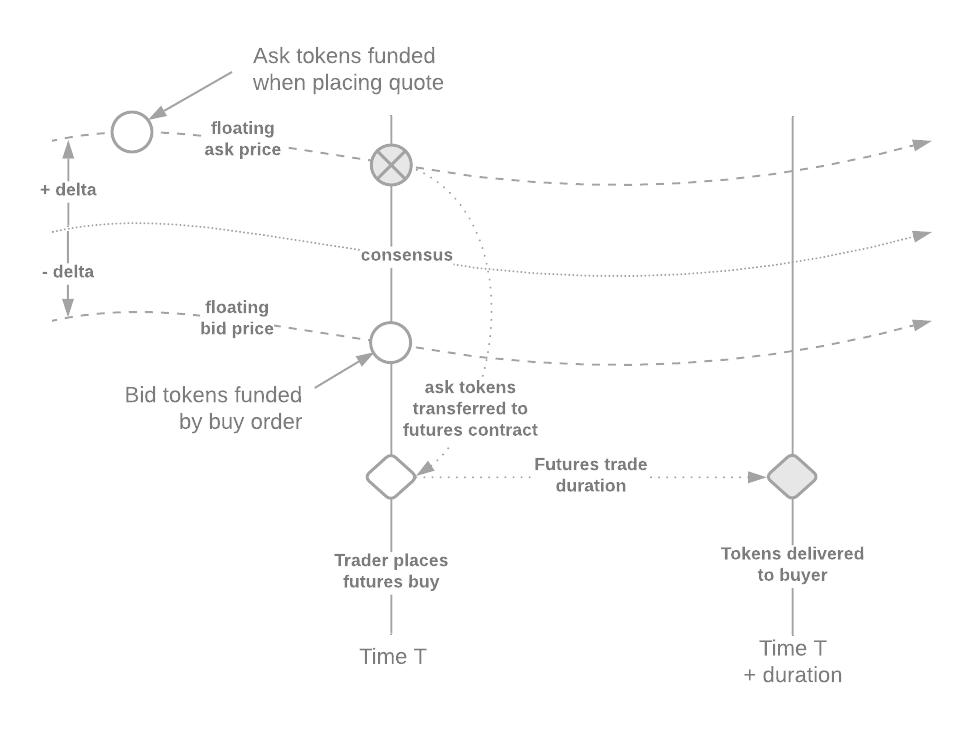
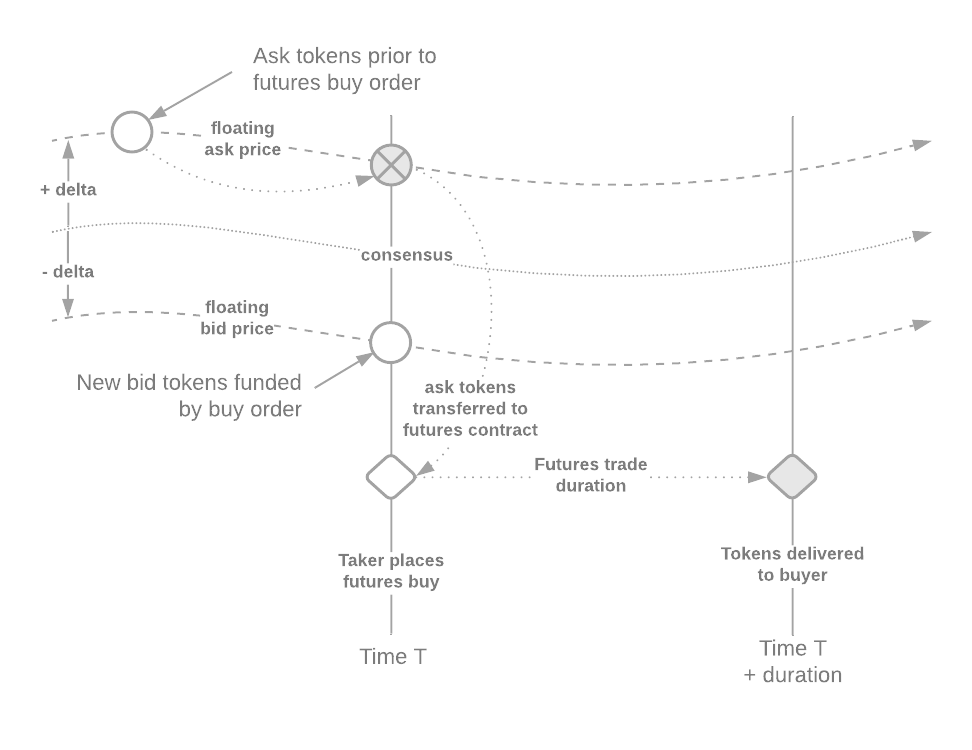
more documentation updates and formula images added

diff --git a/docs/consensus.md b/docs/consensus.md
@@ -11,15 +11,13 @@ In this section we'll take a look how the price consensus markets work in Microt
 
 ![System Diagram](../static/img/microtick_overview_options.png)
 
-### Benefits to the Cosmos ecosystem
+## Benefits to the Cosmos ecosystem
 
 There are other oracles available in Cosmos but Microtick offers one that is both stable (i.e. does not depend on volatility for its price discovery) and one that can be hedged. If your Dapp depends on data but there's no way to hedge exposure with your current oracle, or worse, intra-block volatility can cause significant losses, you might benefit from using Microtick's hedgeable consensus price markets. Even better, they do not depend on tokenization of the underlying asset in order to reap the benefits of decentralized price discovery.
 
-## Market Mechanics
+## The Basics
 
-### The Basics
-
-#### Price quotes
+### Maker: Price quotes
 
 Microtick uses a native token as backing for price quotes places on its consensus markets. These price quotes are weighted and averaged together to arrive at a consensus price. The weights are based on how tight the market maker is willing to specify the +/- accuracy for their quote over the time duration of the market as well as on the amount of backing the market maker is willing to put behind the price quote.
  
@@ -29,13 +27,22 @@ For more information on what is meant by "premium" see the [FAQ](faq.md).
 
 ![Price quote diagram](../static/img/price_quotes.png)
 
-#### Trades
+### Taker: Trades
 
+When a trade is placed against a quote, the trader selects the direction of the trade:
+ 
+* A call trade is a bet that the consensus price goes up over the time duration of the trade.
+* A put trade is a bet that the consensus price goes down over the time duration of the trade.
 
+All trades start at the current consensus price (point **A** below), and last for the time duration of the quote. The trade pays out in relation to the premium paid as shown in the diagram.
 
-#### Markets
+![Consensus Premium Bands](../static/img/consensus_premium_bands.png)
 
-A Microtick market consists of a set of standardized time durations:
+The trader wants to pay as little premium as possible in order to draw in the profit bands so the same price movement pays out more.
+
+### Markets
+
+In order to concentrate liquidity, Microtick markets are standardized by time durations:
 
 * 5-minute 
 * 15-minute
@@ -47,9 +54,9 @@ Each standardized time duration has a separate order book of quotes.  Market mak
 
 Therefore, the market makers play a game of placing and maintining quotes with accurate real world spot and volatility estimates (while tracking the Microtick consensus to ensure consistency).  Traders play a game of looking for trading opportunities based on underpriced premiums or a consensus price that differs significantly from the real-world value.
 
-### Deep Dive
+## Deep Dive
 
-#### Quotes
+### Quotes
 
 A quote consists of the following elements:
 
@@ -59,17 +66,9 @@ A quote consists of the following elements:
 | Token Backing    | Market maker backs the quote with an amount of on-chain token value. |  Market Maker        |
 | Premium | A fair value for both a put and a call with a strike price = the quote’s spot price. | Market Maker |
 | Duration | Standardized duration |  Market Maker |
-| Weight (Quantity) | Weight, also referred to as quantity, is calculated by the following formula: Weight =Token BackingLeverage * Premium  Leverage is a constant set to 10 for all quotes currently. | Game rules |
-| Actual Call Premium |  Dynamic value | |
-| Actual Put Premium | Dynamic value | |
-
-
-Call Price= Premium +Spot - Consensus2
-Game rules, may vary block by block
-
-
-Put Price = Premium - Spot - Consensus2
-Game rules, may vary block by block
+| Weight (Quantity) | ![Weight Formula](../static/img/formula_weight.png) | Game rules |
+| Actual Call Premium | ![Call Formula](../static/img/formula_call.png) | Game rules, may vary block by block |
+| Actual Put Premium | ![Put Formula](../static/img/formula_put.png) | Game rules, may vary block by block |
 
 A quote is an assertion of real-world price made by the market maker and backed with an amount on on-chain token backing.
 
@@ -83,49 +82,35 @@ The actual call and put premiums paid by traders to the market maker in practice
 
 When placing a quote, the following “2x limitations” apply:
 
-Spot 2x limitation.  A quote cannot be placed that will become a free call or put on the resulting order book. This rule protects the party placing the quote as well as limits the spot to be within 2x of the quoted premium of the resultant consensus.  This rule also lets us calculate the maximum amount a given amount of tokens can move the price of a market:
-Max consensus change =2 * New Quote's Token BackingLeverage * Active Quote Weights
+**Spot 2x limitation**.  A quote cannot be placed that will become a free call or put on the resulting order book. This rule protects the party placing the quote as well as limits the spot to be within 2x of the quoted premium of the resultant consensus.  This rule also lets us calculate the maximum amount a given amount of tokens can move the price of a market:
+
+![Max consensus change](../static/img/formula_max_consensus.png)
+
 This formula applies for any spot within 2x of the premium according to the above rule, regardless of the spot, premium or time duration chosen by the market maker.
 
-Premium 2x limitation.  A quote cannot be placed with a premium of more than 2x the current order book consensus premium for that time duration.  The order book consensus premium is defined as:
-Order Book Consensus Premium =order book quotesBackingLeverage * order book quotesWeight 
+**Premium 2x limitation**.  A quote cannot be placed with a premium of more than 2x the current order book consensus premium for that time duration.  The order book consensus premium is defined as:
+
+![Order Book Consensus Premium](../static/img/formula_consensus.png)
+
 for the order book the quote is placed on. This rule means a quote must be competitive on the order book and can’t be placed with an arbitrarily large premium.
 
-Time 2x limitation.  A quote must be updated within 2x the time duration or anyone may cancel it and collect the backing for the quote.  This ensures stagnant quotes will always be removed from the marketplace.
+**Time 2x limitation**.  A quote must be updated within 2x the time duration or anyone may cancel it and collect the backing for the quote.  This ensures stagnant quotes will always be removed from the marketplace.
 
 Normally, for reasonable market makers placing earnest quotes the above limitations will never be an issue.
 
-#### Trades
+### Trades
 
 A trade consists of the following elements:
 
-Name
-Description
-Set by
-Direction
-Call (long) or Put (short)
-Trader
-Strike Price
-Threshold value above (call) or below (put) which the trader is “in-the-money”
-Game rules set the strike price as the current market consensus price when a trade is placed.
-Expiration Time
-Trade expiration after which it may be settled.
-Game rules set the expiration time as the current time plus the duration for the order book the trade is placed on.
-Quantity
-Quantity is another word for weight when specifying an amount for the trade.
-Trader
-Token Backing
-Tokens are transferred from the quote into the trade according to the proportion of trade quantity to quote quantity when the trade is filled.
-Game rules transfer quote backing to become trade backing when a trade is matched.
-Current Value
-For a call, if the current consensus price is higher than the strike price:
-
-Call =Quantity *(Consensus - Strike)
-
-For a put, if the current consensus price is lower than the strike price:
-
-Put =Quantity *(Strike - Consensus)
-Game rules, may vary block by block until settled
+| Name             | Description                                    | Set by                 |
+|------------------|------------------------------------------------|------------------------|
+| Direction | Call (long) or Put (short) | Trader |
+| Strike Price | Threshold value above (call) or below (put) which the trader is “in-the-money” | Game rules set the strike price as the current market consensus price when a trade is placed. |
+| Expiration Time | Trade expiration after which it may be settled. | Game rules set the expiration time as the current time plus the duration for the order book the trade is placed on. |
+| Quantity | Quantity is another word for weight when specifying an amount for the trade. | Trader |
+| Token Backing | Tokens are transferred from the quote into the trade according to the proportion of trade quantity to quote quantity when the trade is filled. | Game rules transfer quote backing to become trade backing when a trade is matched. |
+| Current Value (call) | ![Call Value](../static/img/formula_call_value.png) | Valid for a call, if the current consensus price is higher than the strike price |
+| Current Value (put) | ![Put Value](../static/img/formula_put_value.png) | Valid for a put, if the current consensus price is lower than the strike price |
 
 A trade is purchased from the market maker according to the quantity multiplied by the actual call or put value of the quote at the time the trade is placed.  (See “Actual Call Premium” and “Actual Put Premium” descriptions under the Quotes section)
 
@@ -134,10 +119,12 @@ Once expiration time has passed, a trade may be settled by anyone sending a Sett
 The trader that bought the call or put is paid the current value of the trade at the time of settlement.  This amount is taken out of the trade backing (if the amount is more than the trade backing, the extra value is ignored).  Finally, the original market maker is reimbursed the unpaid backing back into their original account.
 
 Trades may have more than one quote as counter parties.  In this case, each individual counterparty is handled using the same rules as described above.
-Global Consensus
-All active quotes are weighted as described under Quotes, above.
-At all times, the weighted average of the spot prices of all active quotes across all standardized time durations is defined to be the global consensus price for a market.
 
-Global Consensus =quotes (Spot * Weight)quotes Weight
+### Global Consensus
 
-To place a trade, traders specify a direction and a quantity (weight) on a given order book.  Placing a trade removes that amount of quantity (weight) from the quote and the consensus is recalculated.
+* All active quotes are weighted as described under Quotes, above.
+* At all times, the weighted average of the spot prices of all active quotes across all standardized time durations is defined to be the global consensus price for a market.
+
+![Global Consensus](../static/img/formula_global_consensus.png)
+
+* To place a trade, traders specify a direction and a quantity (weight) on a given order book.  Placing a trade removes that amount of quantity (weight) from the quote and the consensus is recalculated.

diff --git a/docs/overview.md b/docs/overview.md
@@ -15,11 +15,11 @@ Microtick has three distinguishing features that differ from trading platforms y
 
 The Microtick project is an experiment in a new mechanism for decentralized price discovery and trading. Its vision is to create a trading system more suited for blockchain usage where blocks come at discrete, relatively infrequent and sometimes unpredictable times, and then build upon that vision to create a new trading paradigm that not only works better on, but **promotes** decentralized trading over the legacy centralized paradigm.
 
-### Rethink Price Discovery
+### Rethinking Price Discovery
 
 To create such a trading system, we've borrowed a concept from game theory called the **Shelling point** and adapted it for trading using a well-known financial derivative: the option. Options are well suited as a blockchain oracle reward / slashing mechanism because the mathematics are well-known and the incentive structure is proven. For example, if an oracle slashes participants for being outliers during a sampling window, then no one will want to be the first to put in new prices as they change. Options solve this by assigning a **time duration** to each quote and an accuracy range to manage stale quots.
 
-### Promote Decentralization
+### Promoting Decentralization
 
 The need to be as close to trading activity in order to observe and act upon the latest price as quickly as possible is a strong force towards centralization in today's financial markets. With this in mind, Microtick's goal is to decouple price discovery from the actual trading of an asset and to  leverage decentralized blockchain technology to promote a more stable Shelling point consensus
 price - as an alternative to the latest observed trade price in typically volatile markets.

diff --git a/docs/futures.md b/docs/futures.md
@@ -56,9 +56,13 @@ For the maker there is no further interaction required until the quote is either
 
 Futures markets on Microtick will use a floating order book, specified through a single +/- delta price that specifies the spread for each quote placed on the order book.  As the consensus price (or price ratio) generated on the consensus markets moves up and down the absolute values of the bids and asks for the floating order book move automatically, keeping the same relationship to the consensus price as specified by the delta price in the quote.
 
-Because the Microtick futures quotes float with the consensus price, they stay open until canceled. The tokens paid by the taker get automatically added to the opposing side of the quoted spread so the maker doesn't have to do anything to continue to accrue profit from trading activity.  (In real-world use the maker will likely be monitoring the consensus price market in relation to external markets such as DEX's and AMM's)
+![Token flow](../static/img/futures_buy.png)
+
+The same thing happens in reverse for a futures sell order:
 
 ![Token flow](../static/img/futures_buy.png)
+
+Because the Microtick futures quotes float with the consensus price, they can simply stay open until canceled. The tokens paid by the taker get automatically added to the opposing side of the quoted spread so the maker doesn't have to do anything to continue to accrue profit from trading activity.  (In real-world use the maker will likely be monitoring the consensus price market in relation to external markets such as DEX's and AMM's)
 
 ## Stablecoin Base Markets
 

diff --git a/docs/faq.md b/docs/faq.md
@@ -13,9 +13,9 @@ Yes, Microtick is an oracle in that a stable consensus price is generated on-cha
 
 But Microtick is also a standalone marketplace that generates a consensus price that can be traded, hedged and arbitraged (in the case of tokenized assets) using a futures mechanism [Futures](futures.md).
 
-### Can the futures price be different from the live price on an AMM or DEX?
+### Can the futures price on Microtick be different from the live price on an AMM or DEX?
 
-Yes! Because the Microtick consensus is based on an average of prices, some of which have durations of up to 12 hours, there is no reason for those market makers to rapidly update their quotes. This can cause the price to lag (or lead, depending on if prices are mean reverting) the live trading price on a DEX or AMM. If the Microtick price is better than the live price and you can wait for the futures delivery, go for it!
+Yes! Because the Microtick consensus is based on an average of prices, some of which have durations of up to 12 hours, there is not always a reason for those market makers to rapidly update their quotes in response to small price changes. This can cause the overall consensus price to lag (or lead, depending on if prices are mean reverting) the live trading price on a DEX or AMM. If the Microtick price is better than the live price and you can wait for the futures delivery, go for it!
 
 For more information see the section on [Price Discovery](overview.md)
 
